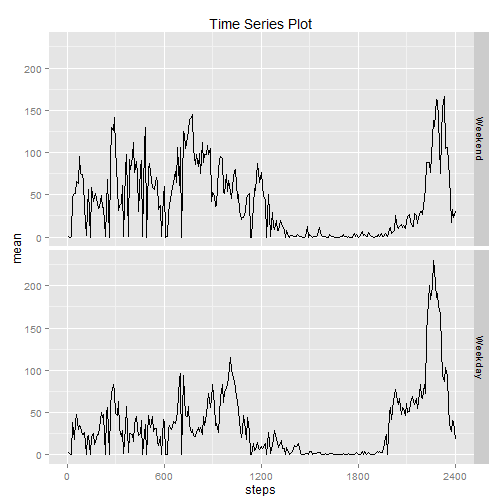
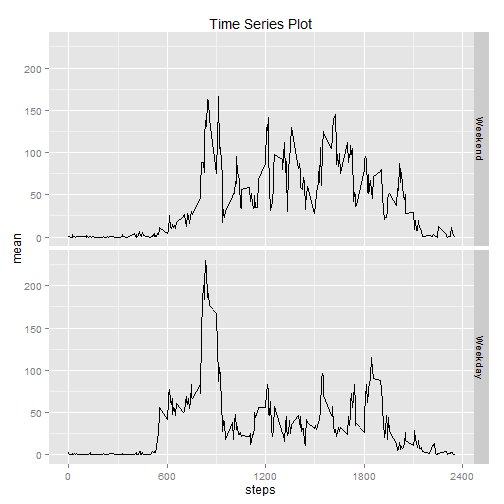
corrected error in last questions

diff --git a/PA1_template.html b/PA1_template.html
@@ -255,10 +255,10 @@ The median of the number of steps taken per day is 10765.</p>
 <pre><code class="r">tempdata &lt;- tapply(activity.data.clean$steps,activity.data.clean$interval,mean)
 #Plot the result
 plot(tempdata,type=&quot;l&quot;,xaxt=&quot;n&quot;,xlab=&quot;5-minute Interval&quot;,ylab=&quot;Average number of steps taken&quot;,main=&quot;Time Series Plot&quot;)
-axis(1,at=1:288,labels=names(tempdata),cex.axis=0.5)
+axis(1, at=seq(0,288,by=288/4),labels=c(0,600,1200,1800,2400))
 </code></pre>
 
[2 lines of base64/hex data omitted]
 
 <p>Find the 5-minute interval which has the max number of steps.</p>
 
@@ -329,26 +329,24 @@ data$dayofweek &lt;- as.factor(data$dayofweek)
 
 <pre><code class="r">weekend.data &lt;- subset(data,data$dayofweek == &quot;Weekend&quot;)
 weekend.data &lt;- tapply(weekend.data$steps,weekend.data$interval,mean)
-weekend.df &lt;- data.frame(steps=names(weekend.data),mean=weekend.data,dayofweek=&quot;Weekend&quot;)
+weekend.df &lt;- data.frame(steps=as.integer(names(weekend.data)),mean=weekend.data,dayofweek=&quot;Weekend&quot;)
 weekday.data &lt;- subset(data,data$dayofweek == &quot;Weekday&quot;)
 weekday.data &lt;- tapply(weekday.data$steps,weekday.data$interval,mean)
-weekday.df &lt;- data.frame(steps=names(weekday.data),mean=weekday.data,dayofweek=&quot;Weekday&quot;)
+weekday.df &lt;- data.frame(steps=as.integer(names(weekday.data)),mean=weekday.data,dayofweek=&quot;Weekday&quot;)
 c.data &lt;- rbind(weekend.df,weekday.df)
 c.data$steps &lt;- as.integer(c.data$steps)
 
 #Plot the result
 library(ggplot2)
-x.limit &lt;- nrow(subset(c.data,dayofweek==&quot;Weekend&quot;))
-breaks=seq(0,x.limit,x.limit/4)
-labels=seq(0,2400,2400/(length(breaks)-1))
+x=seq(0,2400,600)
 g&lt;-ggplot(data=c.data,aes(x=steps,y=mean))
-g&lt;-g+geom_line(aes(group=dayofweek))+facet_grid(dayofweek~.)+ 
-  scale_x_continuous(breaks=breaks,labels=labels)+
-  ggtitle(&quot;Time Series Plot&quot;)
+g&lt;-g+geom_line(aes(group=dayofweek))+facet_grid(dayofweek~.)
+g&lt;-g+scale_x_continuous(breaks=x,labels=as.character(x))
+g&lt;-g+ggtitle(&quot;Time Series Plot&quot;)
 g
 </code></pre>
 
[2 lines of base64/hex data omitted]
 
 </body>
 

diff --git a/PA1_template.md b/PA1_template.md
@@ -65,7 +65,7 @@ Extract data for average steps per day group by interval type. Then plot the res
 tempdata <- tapply(activity.data.clean$steps,activity.data.clean$interval,mean)
 #Plot the result
 plot(tempdata,type="l",xaxt="n",xlab="5-minute Interval",ylab="Average number of steps taken",main="Time Series Plot")
-axis(1,at=1:288,labels=names(tempdata),cex.axis=0.5)
+axis(1, at=seq(0,288,by=288/4),labels=c(0,600,1200,1800,2400))
 ```
 
 ![plot of chunk unnamed-chunk-6](figure/unnamed-chunk-6-1.png) 
@@ -152,22 +152,20 @@ data$dayofweek <- as.factor(data$dayofweek)
 ```r
 weekend.data <- subset(data,data$dayofweek == "Weekend")
 weekend.data <- tapply(weekend.data$steps,weekend.data$interval,mean)
-weekend.df <- data.frame(steps=names(weekend.data),mean=weekend.data,dayofweek="Weekend")
+weekend.df <- data.frame(steps=as.integer(names(weekend.data)),mean=weekend.data,dayofweek="Weekend")
 weekday.data <- subset(data,data$dayofweek == "Weekday")
 weekday.data <- tapply(weekday.data$steps,weekday.data$interval,mean)
-weekday.df <- data.frame(steps=names(weekday.data),mean=weekday.data,dayofweek="Weekday")
+weekday.df <- data.frame(steps=as.integer(names(weekday.data)),mean=weekday.data,dayofweek="Weekday")
 c.data <- rbind(weekend.df,weekday.df)
 c.data$steps <- as.integer(c.data$steps)
 
 #Plot the result
 library(ggplot2)
-x.limit <- nrow(subset(c.data,dayofweek=="Weekend"))
-breaks=seq(0,x.limit,x.limit/4)
-labels=seq(0,2400,2400/(length(breaks)-1))
+x=seq(0,2400,600)
 g<-ggplot(data=c.data,aes(x=steps,y=mean))
-g<-g+geom_line(aes(group=dayofweek))+facet_grid(dayofweek~.)+ 
-  scale_x_continuous(breaks=breaks,labels=labels)+
-  ggtitle("Time Series Plot")
+g<-g+geom_line(aes(group=dayofweek))+facet_grid(dayofweek~.)
+g<-g+scale_x_continuous(breaks=x,labels=as.character(x))
+g<-g+ggtitle("Time Series Plot")
 g
 ```
 
